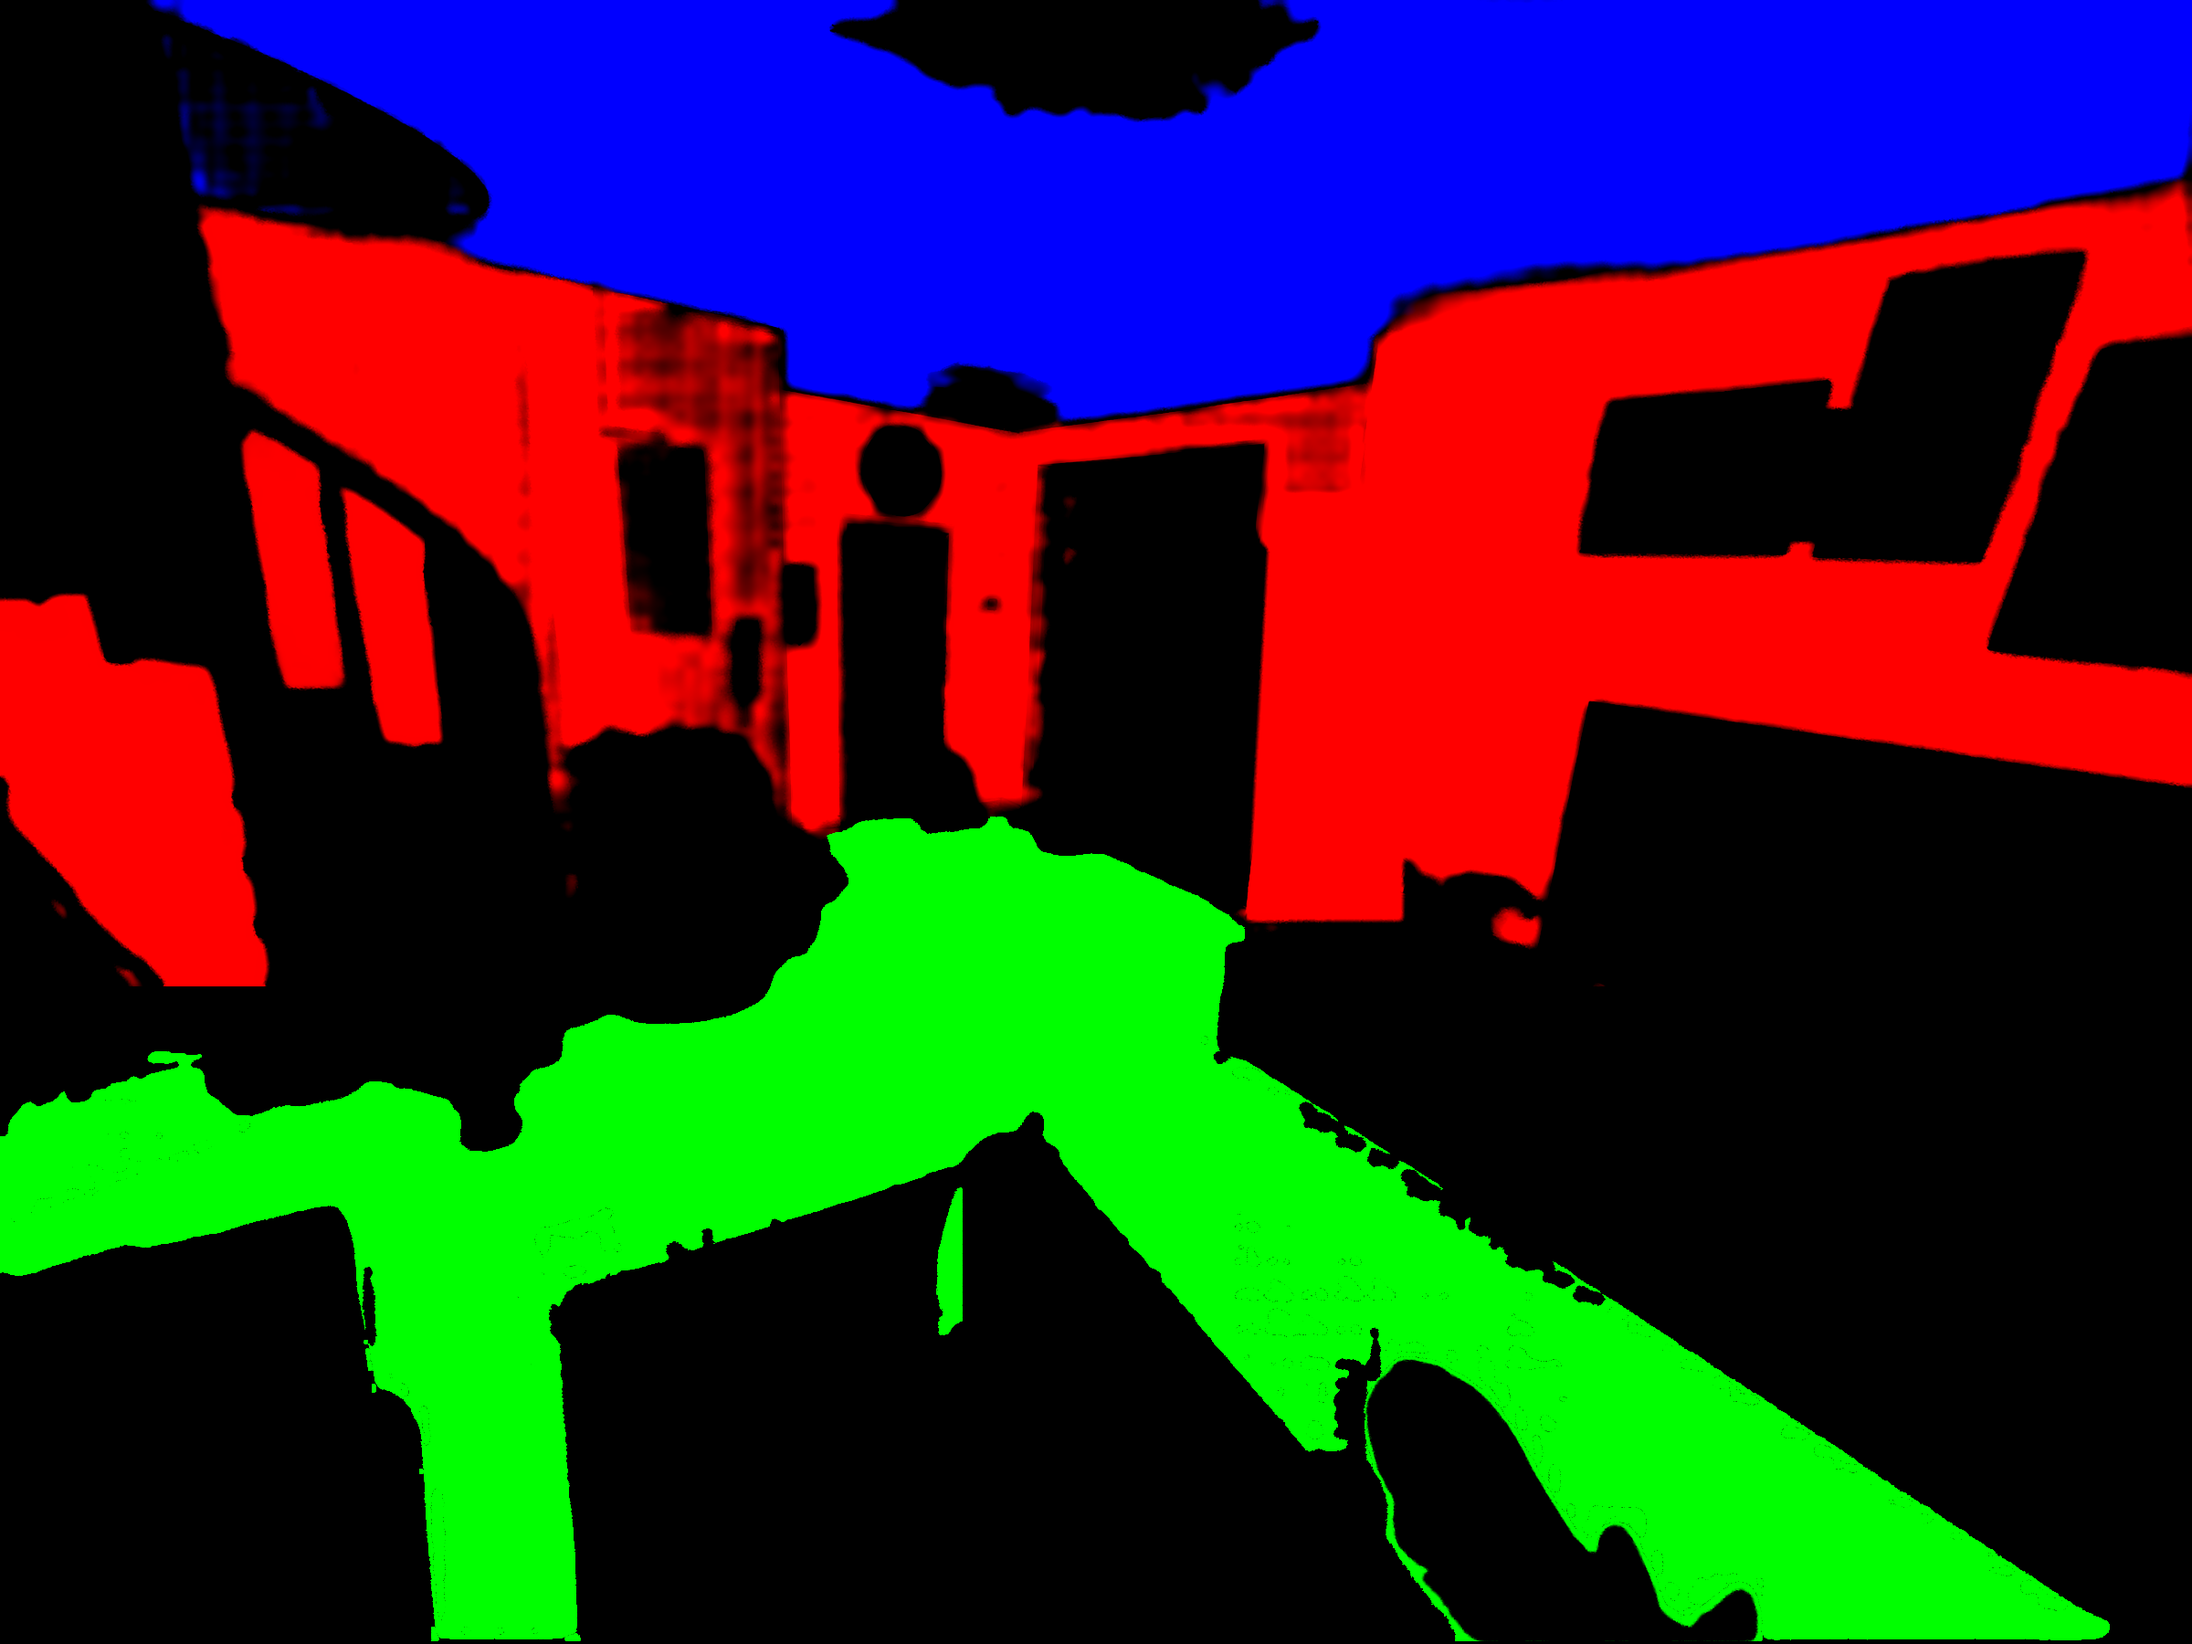
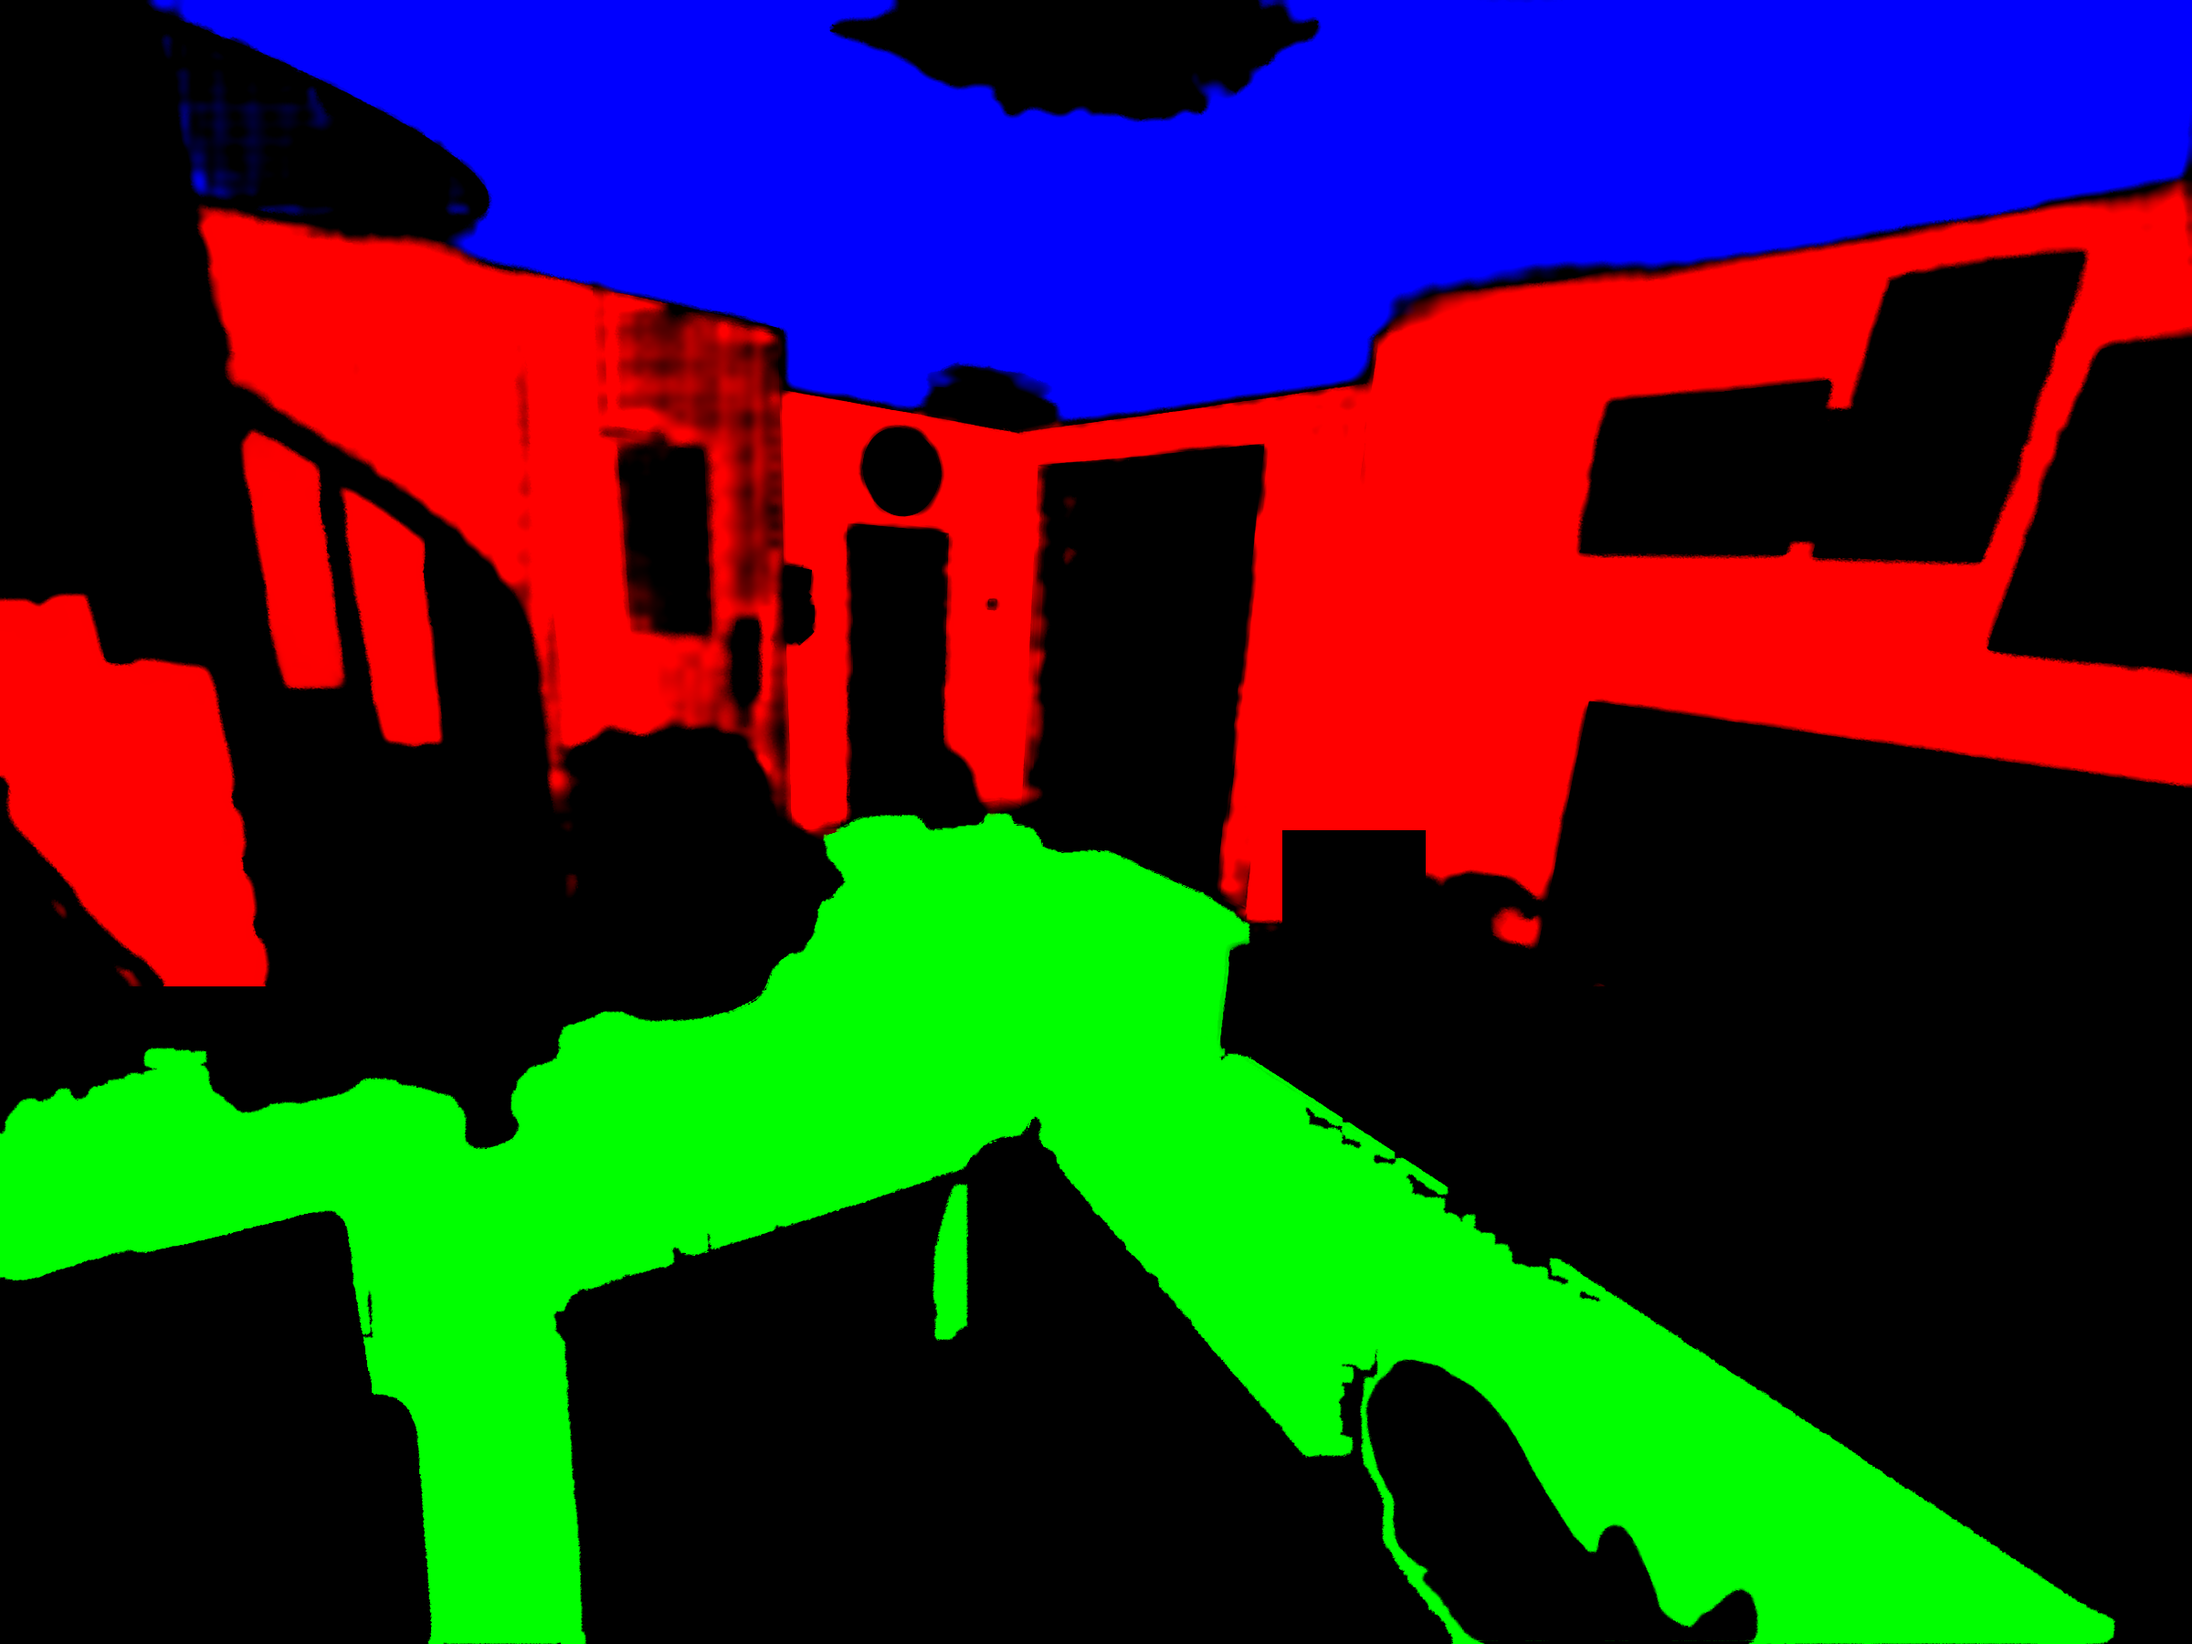
Photo 4: recalibrated floor homography from vanishing lines, wall mask fixes, floor edge growth

diff --git a/index.html b/index.html
@@ -92,7 +92,7 @@ async function floorTex(name){if(texCache[name])return texCache[name];let c=docu
 const d=x.getImageData(0,0,1024,1024).data;let s=0;for(let i=0;i<d.length;i+=4*97){const l=.2126*(d[i]/255)**2.2+.7152*(d[i+1]/255)**2.2+.0722*(d[i+2]/255)**2.2;s+=l}
 return texCache[name]={c,mean:s/(d.length/4/97)}}
 // ---------- photos
-let cur=null,meta={};const PERSP={84:[[.43,.5],[.8,.47],[1.08,.82],[.22,.67],3.5,3],85:[[.42,.55],[.76,.535],[1.0,.98],[.12,.92],3.5,4],86:[[.15,.6],[.62,.585],[1.05,.98],[-.15,.97],4,3.5],87:[[.31,.6],[.63,.6],[1.2,1.0],[-.12,1.0],3.4,4]};
+let cur=null,meta={};const PERSP={84:[[.43,.5],[.8,.47],[1.08,.82],[.22,.67],3.5,3],85:[[.42,.55],[.76,.535],[1.0,.98],[.12,.92],3.5,4],86:[[.15,.6],[.62,.585],[1.05,.98],[-.15,.97],4,3.5],87:[[.294,.5],[.644,.5],[1.3,1.0],[-.3,1.0],2.2,3.5]};
 function homog(src,dst){// src->dst 4pts, returns 3x3 row-major
 const M=[],b=[];for(let i=0;i<4;i++){const[x,y]=src[i],[u,v]=dst[i];M.push([x,y,1,0,0,0,-u*x,-u*y]);b.push(u);M.push([0,0,0,x,y,1,-v*x,-v*y]);b.push(v)}
 for(let i=0;i<8;i++){let p=i;for(let r=i+1;r<8;r++)if(Math.abs(M[r][i])>Math.abs(M[p][i]))p=r;[M[i],M[p]]=[M[p],M[i]];[b[i],b[p]]=[b[p],b[i]];
